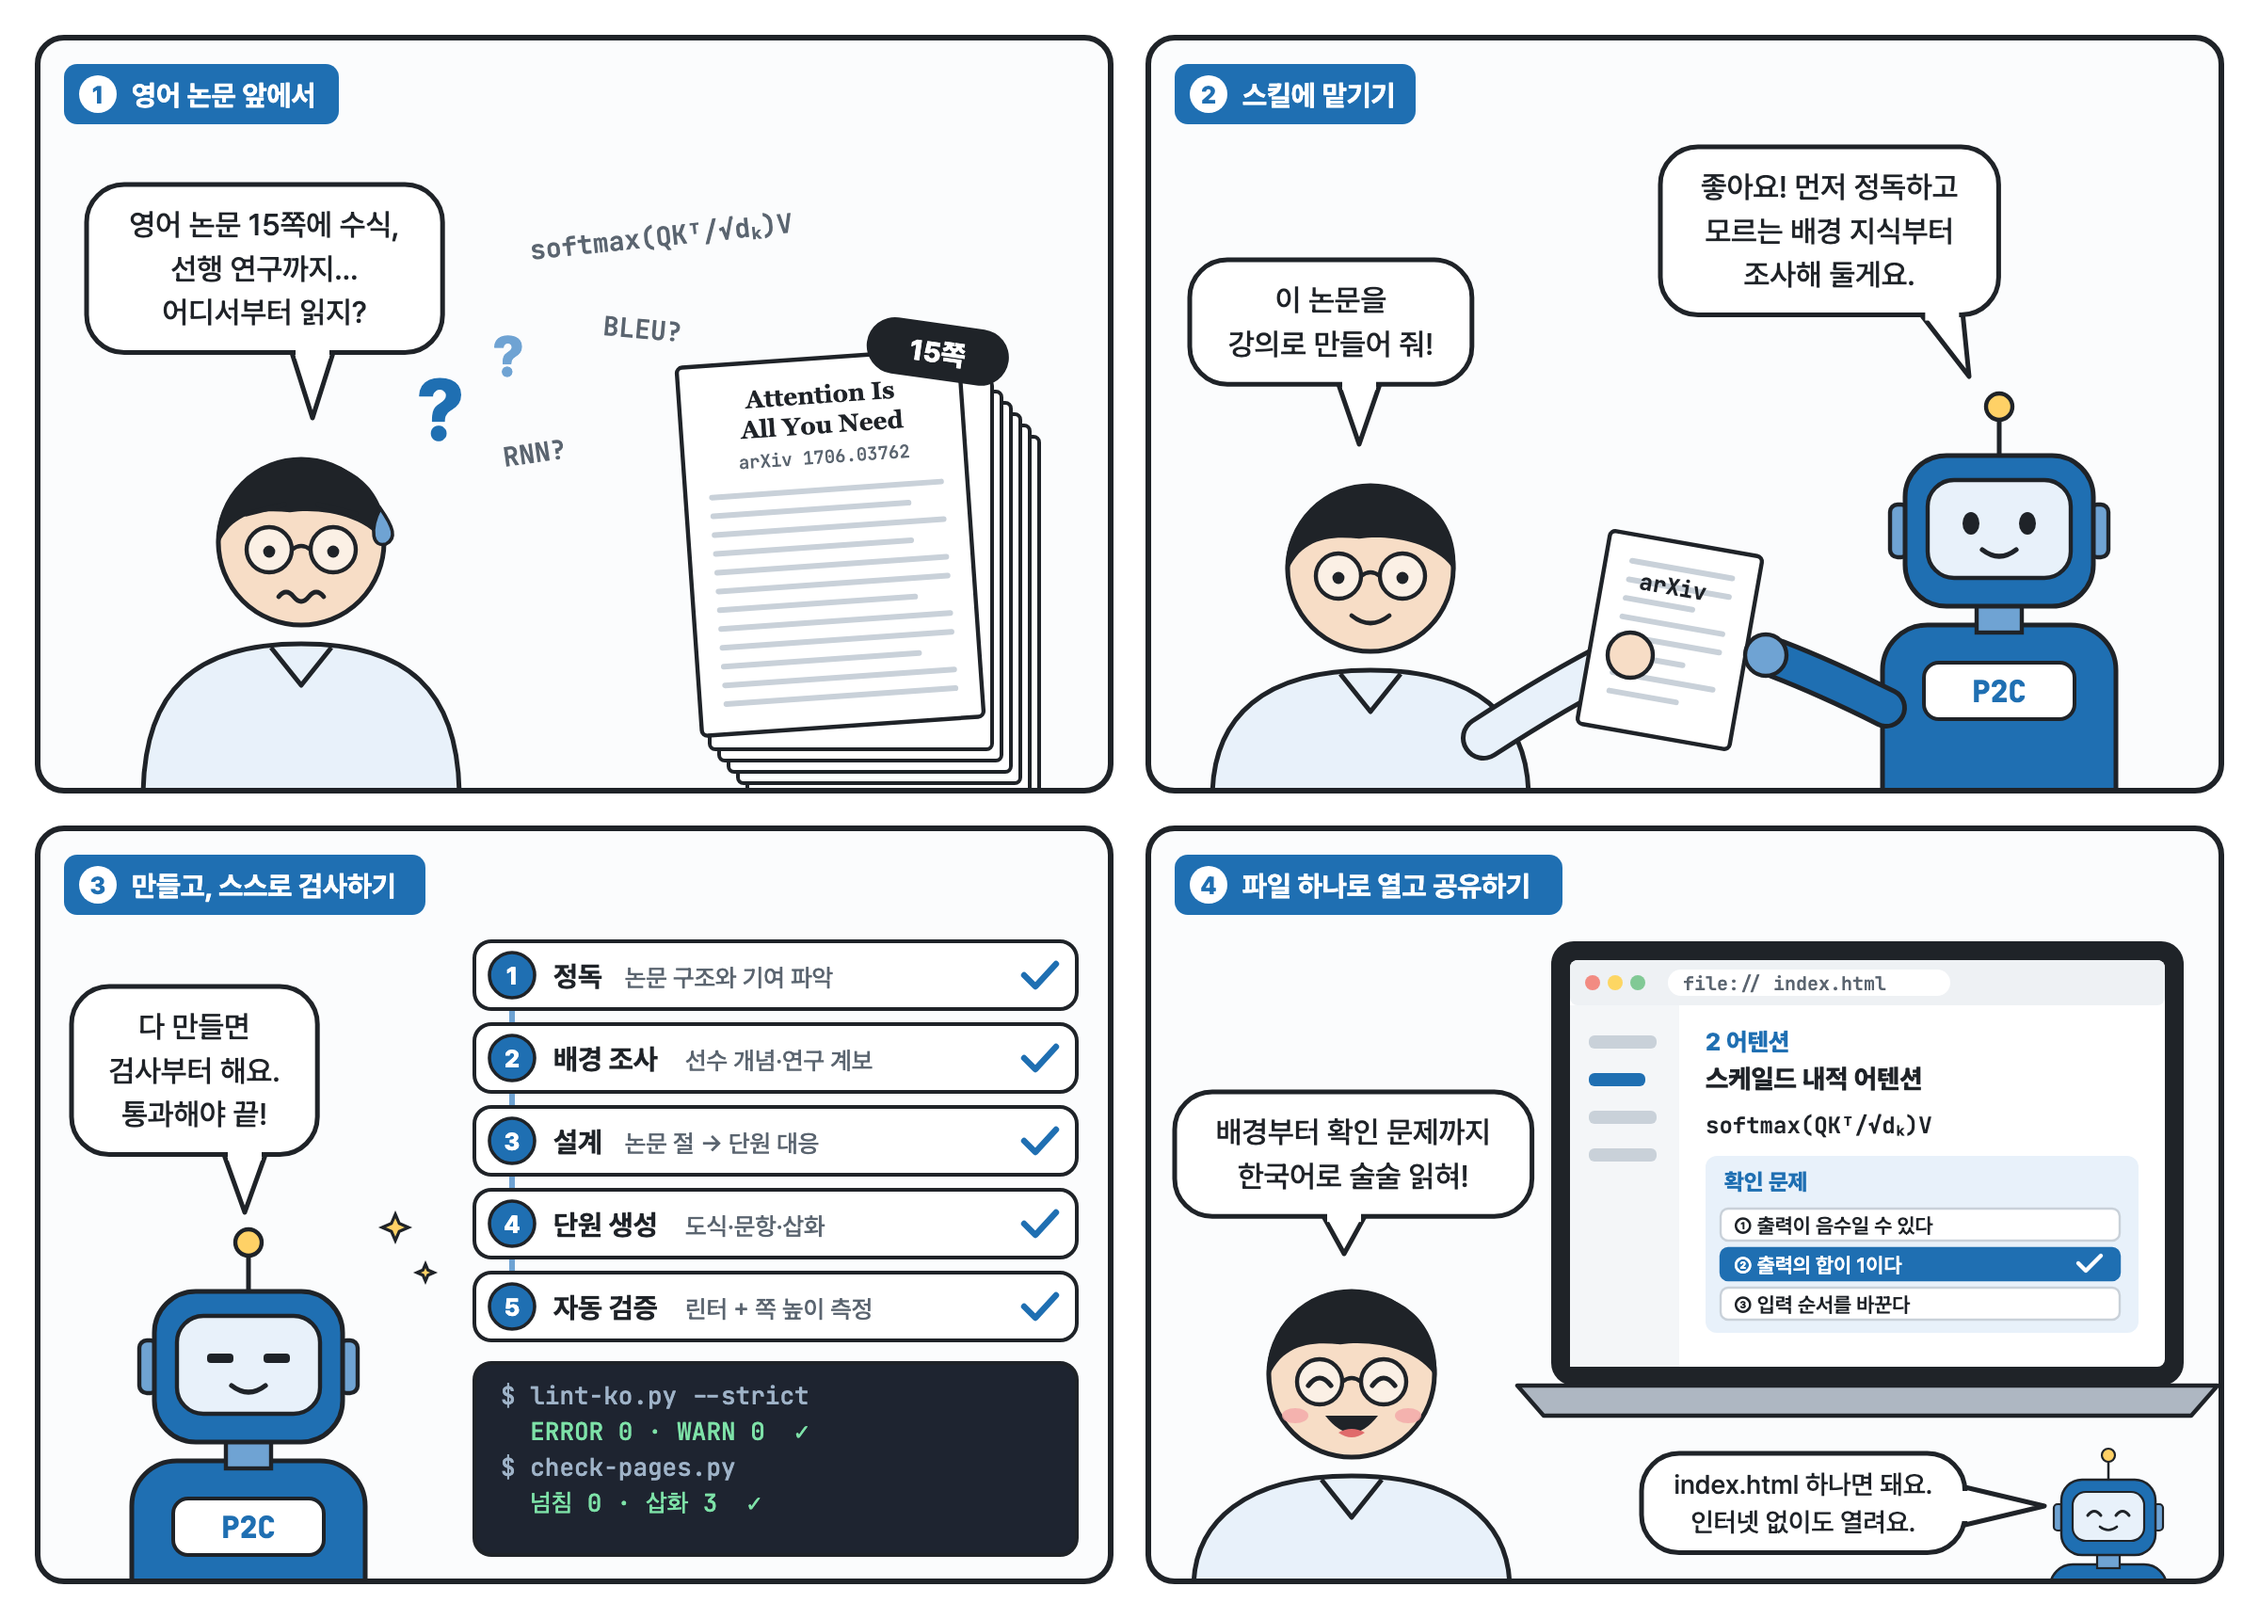
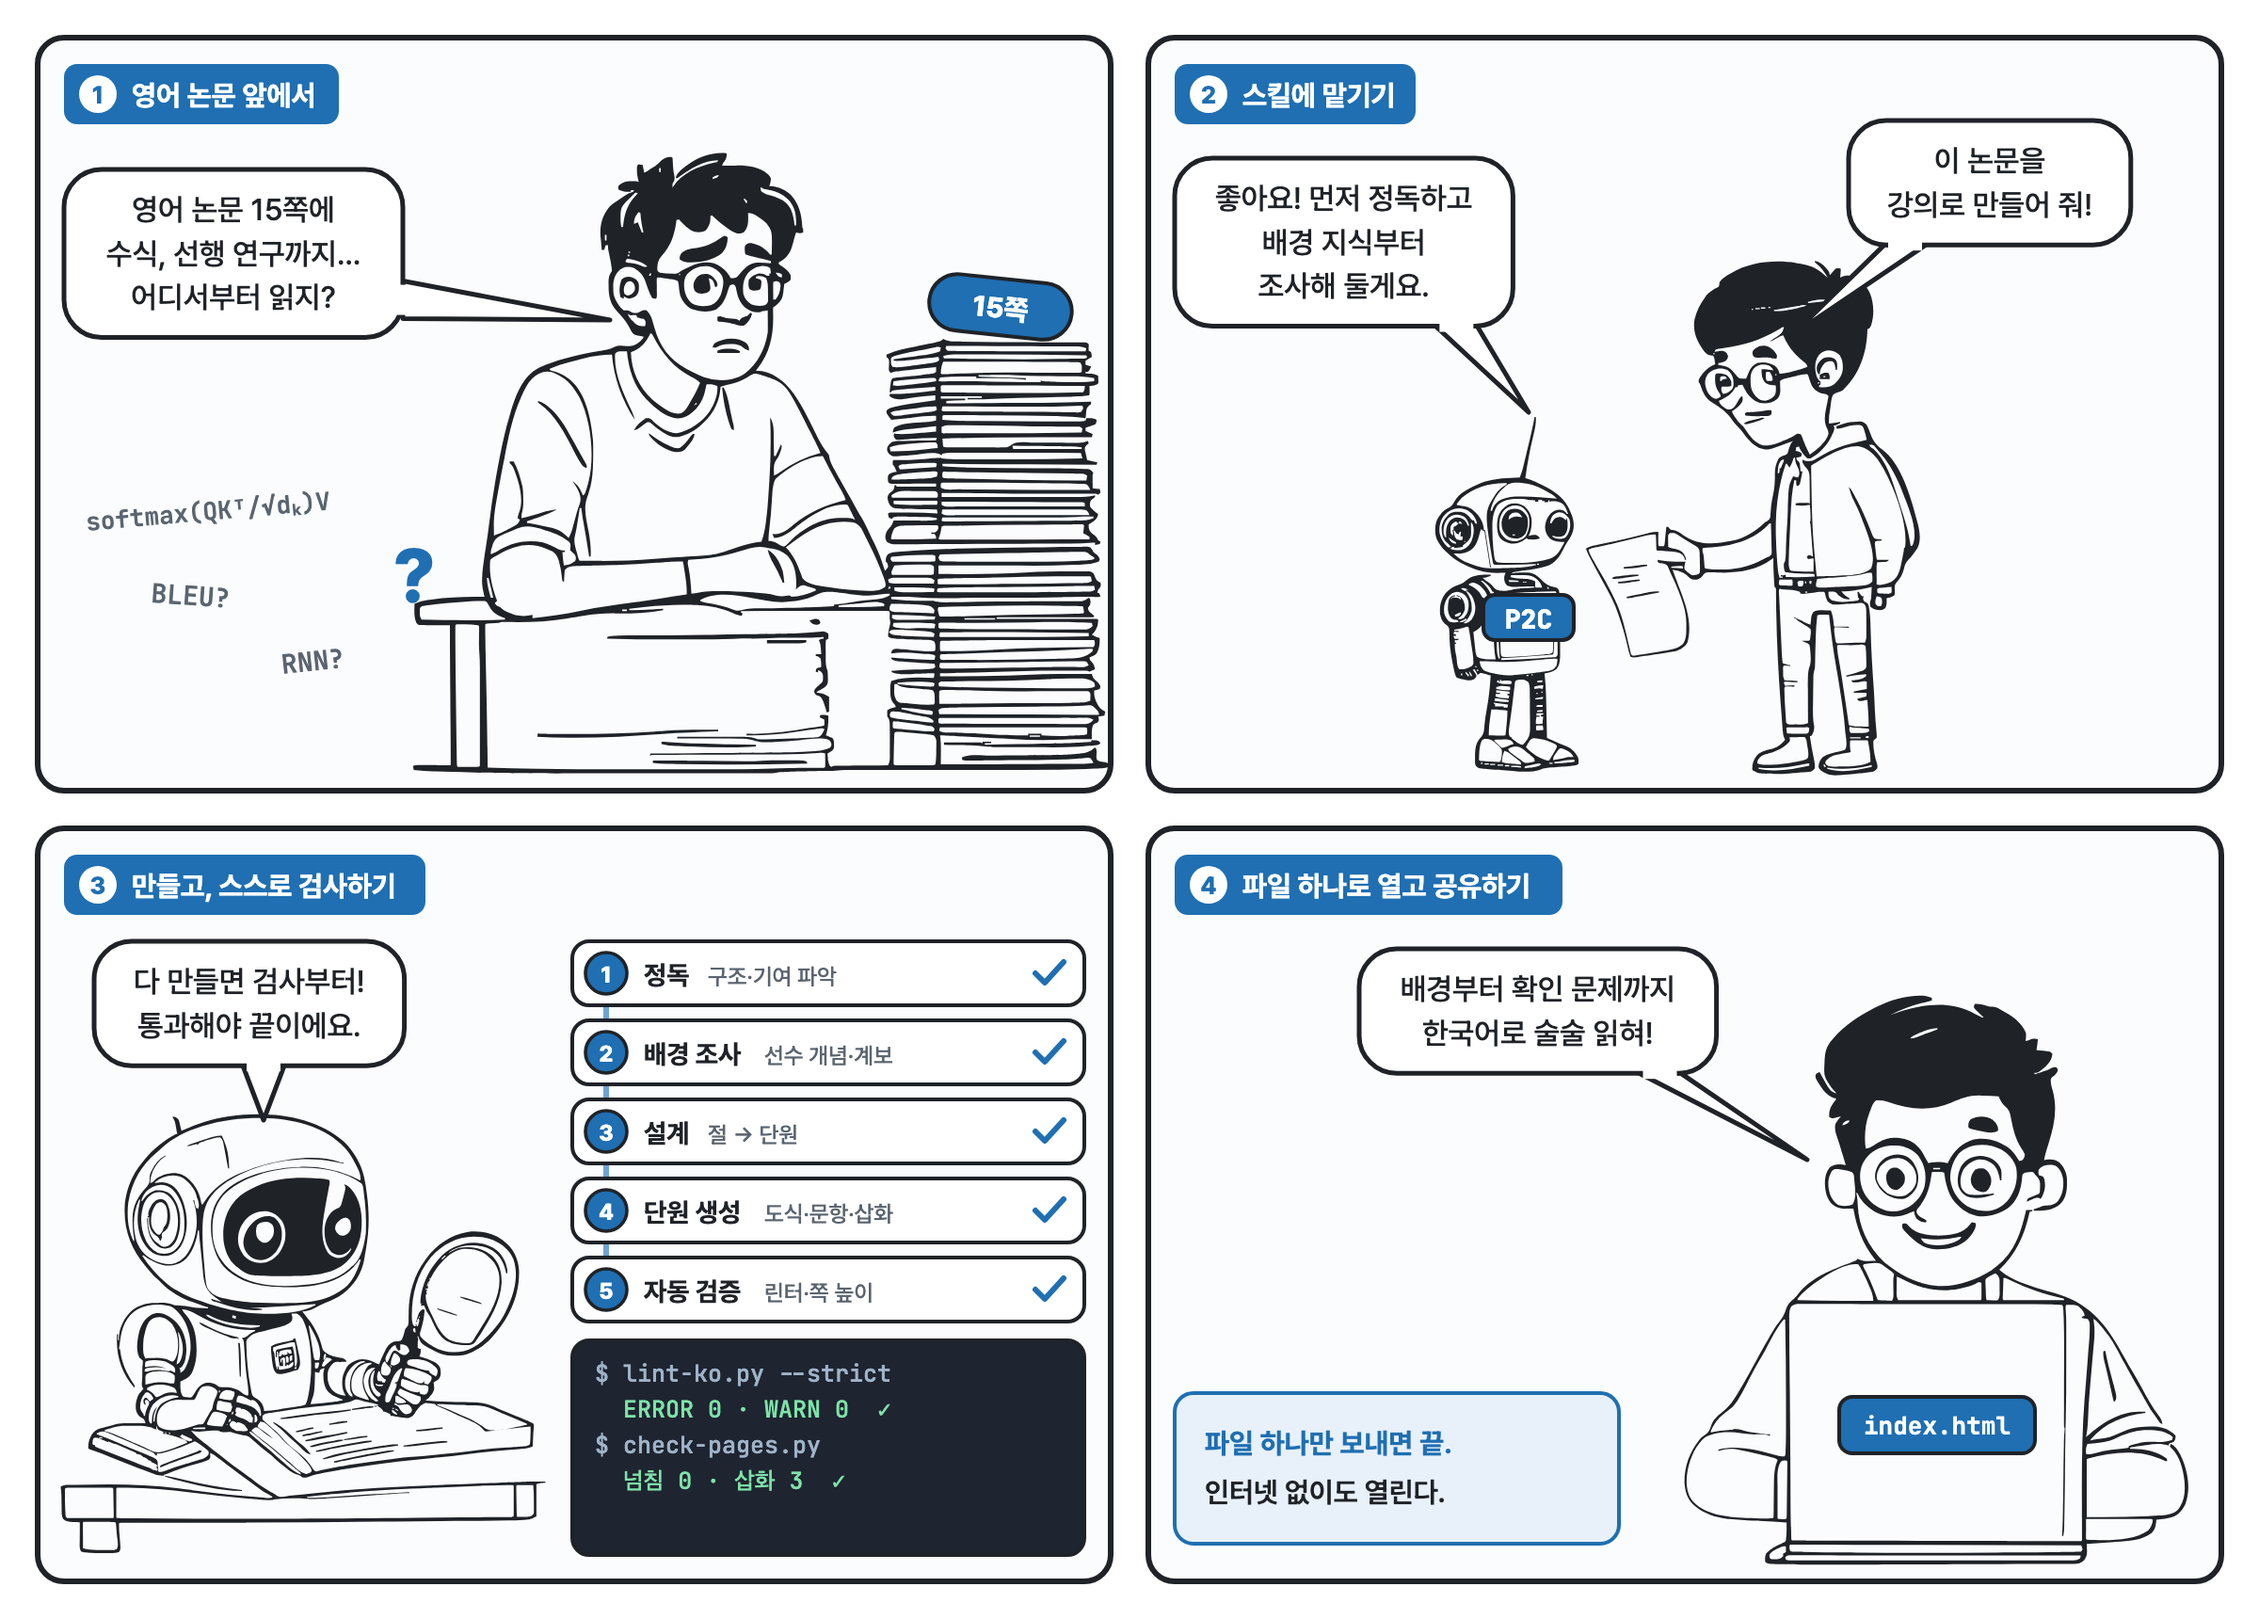
README 만화 삽화를 로컬 모델(SANA-Sprint) 선화로 재생성
- 네 칸 장면을 illustrate.py 파이프라인(생성 → 이진화 → 벡터화 → 먹색 정규화)으로 다시 그림
- 말풍선·번호 띠·단계 목록·라벨은 코드로 덧씌움, 노트북 로고 모양은 지우고 index.html 스티커로 대체
- 재현용 생성 조건(모델·프롬프트·시드)을 docs/images/comic.json에 기록

diff --git a/README.md b/README.md
@@ -23,7 +23,7 @@
 ## 한눈에 보기: 논문 1편 → 강의 1개
 
 <p align="center">
-  <img src="docs/images/comic.png" alt="네 칸 만화. 1: 영어 논문 15쪽 앞에서 독자가 어디서부터 읽을지 막막해한다. 2: 독자가 논문을 스킬 로봇 P2C에 건네며 강의로 만들어 달라고 하고, 로봇은 정독하고 배경 지식부터 조사하겠다고 답한다. 3: 로봇이 정독, 배경 조사, 설계, 단원 생성, 자동 검증 다섯 단계를 거치고 린터와 쪽 검사를 통과시킨다. 4: 독자가 index.html 하나로 한국어 강의와 확인 문제를 읽으며 기뻐하고, 로봇은 인터넷 없이도 열린다고 말한다." width="880">
+  <img src="docs/images/comic.png" alt="네 칸 만화. 1: 높이 쌓인 논문 더미 옆에서 안경 쓴 독자가 영어 논문 15쪽을 어디서부터 읽을지 막막해한다. 2: 독자가 작은 로봇 P2C에 논문을 건네며 강의로 만들어 달라고 하고, 로봇은 정독하고 배경 지식부터 조사하겠다고 답한다. 3: 로봇이 돋보기로 문서를 살피고, 정독·배경 조사·설계·단원 생성·자동 검증 다섯 단계와 린터·쪽 검사 통과 결과가 표시된다. 4: 독자가 index.html 스티커가 붙은 노트북 앞에서 웃으며 한국어로 술술 읽힌다고 말하고, 파일 하나만 보내면 인터넷 없이도 열린다는 설명이 붙는다." width="880">
 </p>
 
 `Attention Is All You Need`(arXiv 1706.03762)를 입력하면 다음 산출물이 생성된다.
